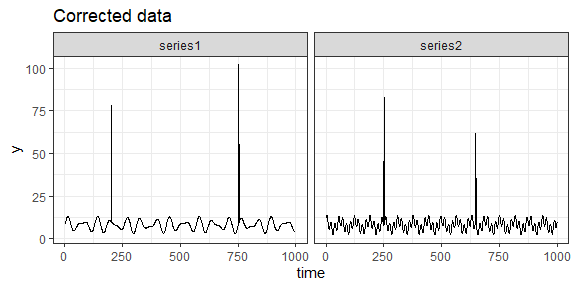
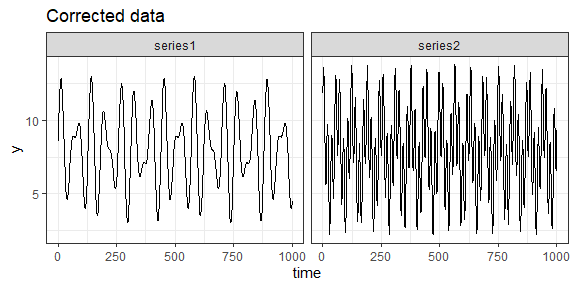
update README

diff --git a/README.md b/README.md
@@ -110,11 +110,10 @@ with the `silk::find_outliers()` function in the following fashion:
 ``` r
 
 silk_data1 |> 
-  silk::find_outliers(col = "y", group_col = "group") |>
-  silk::correct_outliers(col = "y") |>
+  silk::find_outliers(col = "y", group_col = "group") |> 
+  silk::correct_outliers(col = "y") |> 
   ggplot2::ggplot(ggplot2::aes(x = time, y = y)) +
   ggplot2::geom_line() +
-#  ggplot2::geom_point(ggplot2::aes(color = .outlier)) +
   ggplot2::theme_bw() +
   ggplot2::facet_wrap(~group) +
   ggplot2::ggtitle("Corrected data")
@@ -122,9 +121,9 @@ silk_data1 |>
 
 <img src="man/figures/README-correct-outliers-1.png" width="100%" />
 
-``` r
- # ggplot2::theme(legend.position = "top")
-```
+The `silk::correct_outliers()` function overwrites the original column
+values, replacing the outlier values with the mean of the previous and
+following observation in the data.
 
 <!--
 You'll still need to render `README.Rmd` regularly, to keep `README.md` up-to-date. `devtools::build_readme()` is handy for this.
